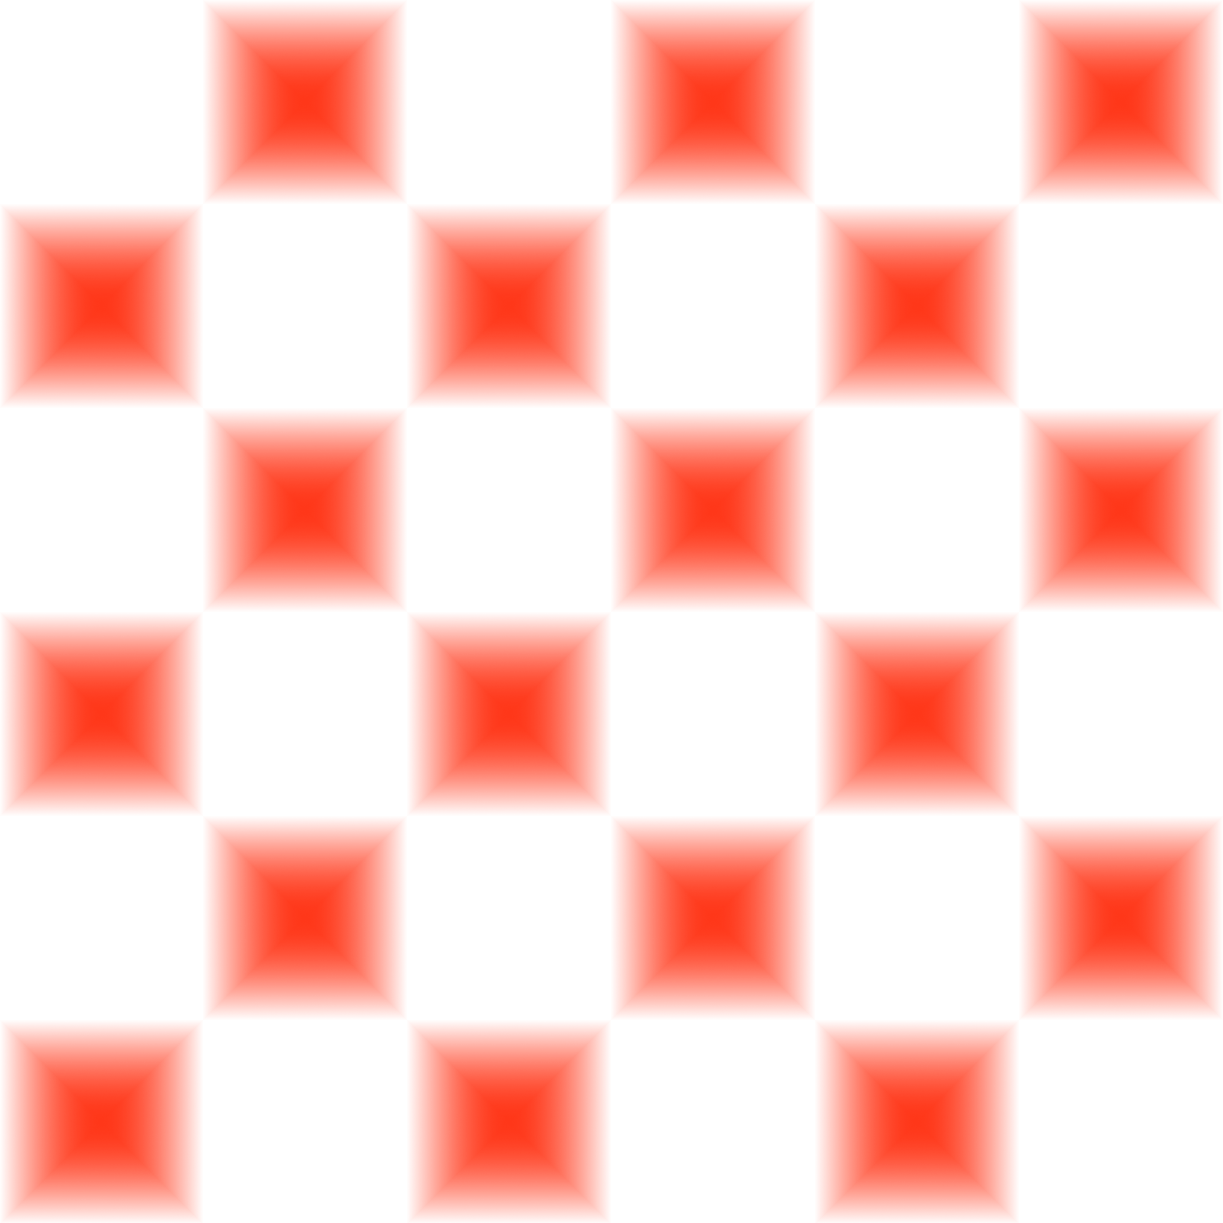
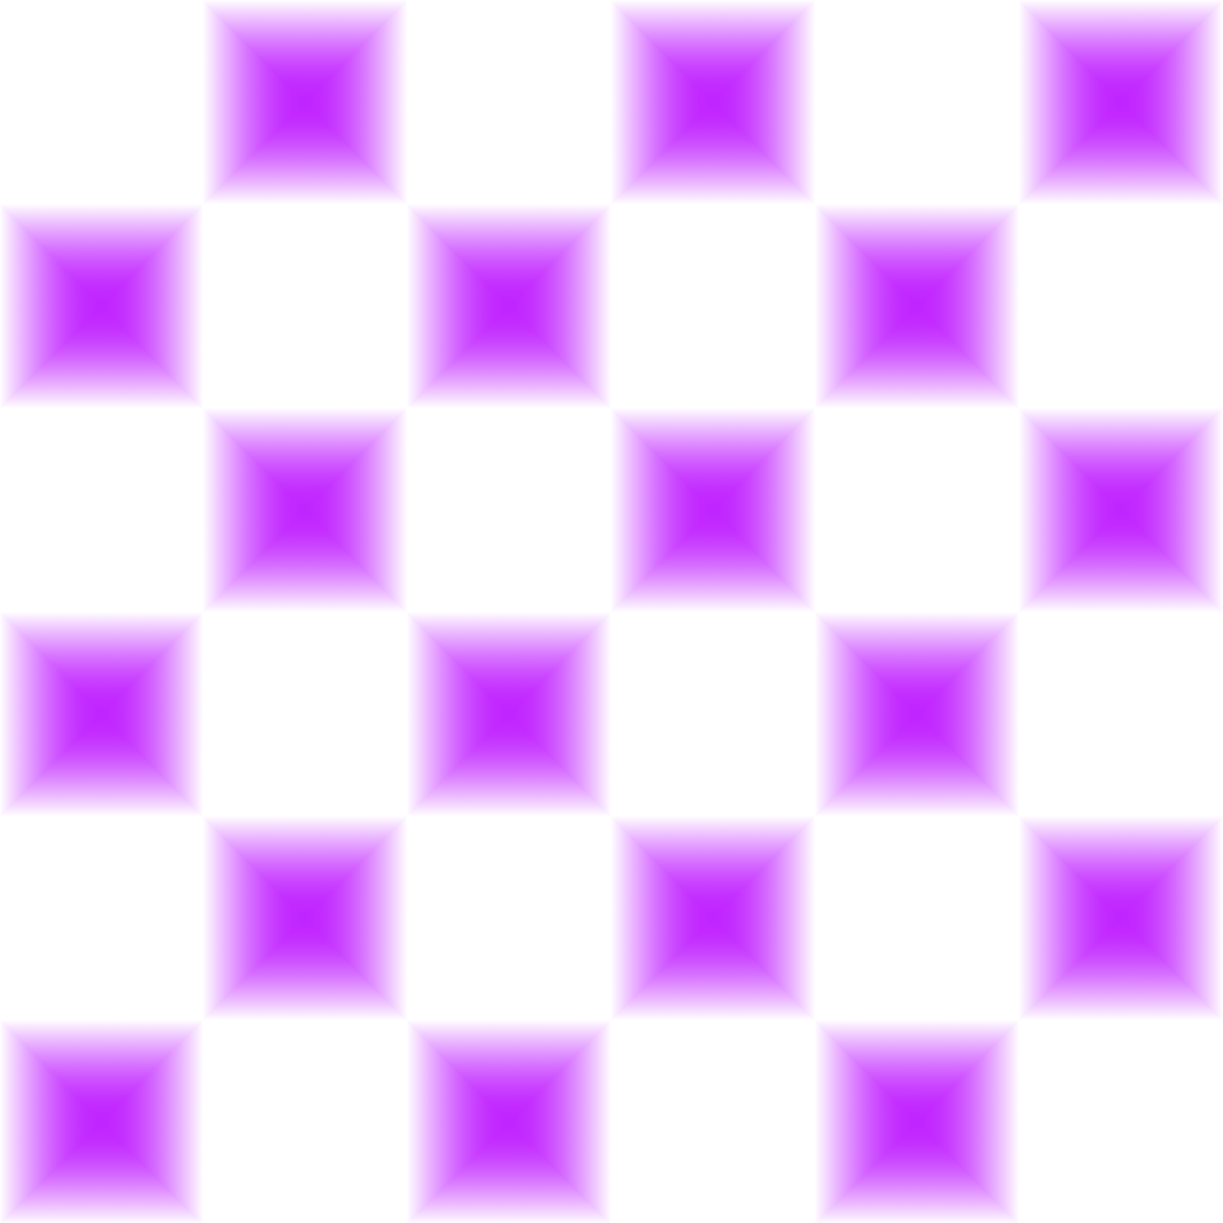
Standard Theme Changes
Theme H has been redesigned from a medicore Red to a good Purple theme and uses Purple instead of Red cubes

Themes A to G have been adjusted on some values to look better

diff --git a/resources/Designer.js b/resources/Designer.js
@@ -885,11 +885,11 @@ function ApplyTheme () {
 				 '--desktop-background-size:' + $('.bg_size .cpe-select__value').attr('value')  + ';\n' +
 				 '--desktop-background-no-horizontal-tiling:' + (!( document.querySelector('input#tilingH').checked ))  + ';\n' +
 				 '--desktop-background-no-vertical-tiling:' + (!( document.querySelector('input#tilingV').checked ))  + ';\n' +
-				 '--hyperlink-background-color:' + $('#saccentcolor').val() + ';\n' +
 				 '--canvas-background-color:' + $('#pagebg').val() + ';\n' +
 				 '--inactive-text-background-color:' + autocolor2  + ';\n' +
 				 '--canvas-text-background-color:' + autocolor3  + ';\n' +
 				 '--highlight-background-color:' + $('#accentcolor').val() + ';\n' +
+				 '--hyperlink-background-color:' + $('#saccentcolor').val() + ';\n' +
 				 '--active-title-background-color:' + autocolor5  + ';\n' +
 				 '--inactive-title-background-color:' + autocolor4  + ';\n' +
 				 '--custom-font:' + customfont2 + ';\n' +
@@ -970,7 +970,7 @@ function CopyTheme() {
     } else {
 		var customfont = $('#secondfont').val();
     }
-		result = '.theme-"' + window.MW18ActiveTheme + '.visualcolors-standard {\n' + // Beginning
+		result = '.theme-' + window.MW18ActiveTheme + '.visualcolors-standard {\n' + // Beginning
 				 '--desktop-background-image:' + image + ';\n' +
 				 '--desktop-background-image-opacity:' + $('#bodyimageopacity').val() + "%" + ';\n' +
 				 '--desktop-background-color:' + $('#bodybg').val()  + ';\n' +
@@ -981,11 +981,11 @@ function CopyTheme() {
 				 '--desktop-background-size:' + $('.bg_size .cpe-select__value').attr('value')  + ';\n' +
 				 '--desktop-background-no-horizontal-tiling:' + (!( document.querySelector('input#tilingH').checked ))  + ';\n' +
 				 '--desktop-background-no-vertical-tiling:' + (!( document.querySelector('input#tilingV').checked ))  + ';\n' +
-				 '--hyperlink-background-color:' + $('#saccentcolor').val() + ';\n' +
 				 '--canvas-background-color:' + $('#pagebg').val() + ';\n' +
 				 '--inactive-text-background-color:' + autocolor2  + ';\n' +
 				 '--canvas-text-background-color:' + autocolor3  + ';\n' +
 				 '--highlight-background-color:' + $('#accentcolor').val() + ';\n' +
+				 '--hyperlink-background-color:' + $('#saccentcolor').val() + ';\n' +
 				 '--active-title-background-color:' + autocolor5  + ';\n' +
 				 '--inactive-title-background-color:' + autocolor4  + ';\n' +
 				 '--custom-font:' + customfont2 + ';\n' +
@@ -1180,11 +1180,11 @@ function TestTheme() {
 				 '--desktop-background-size:' + $('.bg_size .cpe-select__value').attr('value')  + '!important;\n' +
 				 '--desktop-background-no-horizontal-tiling:' + (!( document.querySelector('input#tilingH').checked ))  + '!important;\n' +
 				 '--desktop-background-no-vertical-tiling:' + (!( document.querySelector('input#tilingV').checked ))  + '!important;\n' +
-				 '--hyperlink-background-color:' + $('#saccentcolor').val() + '!important;\n' +
 				 '--canvas-background-color:' + $('#pagebg').val() + '!important;\n' +
 				 '--inactive-text-background-color:' + autocolor2  + '!important;\n' +
 				 '--canvas-text-background-color:' + autocolor3  + '!important;\n' +
 				 '--highlight-background-color:' + $('#accentcolor').val() + '!important;\n' +
+				 '--hyperlink-background-color:' + $('#saccentcolor').val() + '!important;\n' +
 				 '--active-title-background-color:' + autocolor5  + '!important;\n' +
 				 '--inactive-title-background-color:' + autocolor4  + '!important;\n' +
 				 '--custom-font:' + customfont2 + '!important;\n' +

diff --git a/resources/Evelution.css b/resources/Evelution.css
@@ -1,15 +1,15 @@
 .theme-A.visualcolors-standard {
 --desktop-background-image:url("Cubes1.png");
 --desktop-background-color:#c8c8cd;
---desktop-text-background-color:#000000;
+--desktop-text-background-color:#614051;
 --desktop-background-size:contain;
 --canvas-background-color:#ffffff;
 --inactive-text-background-color:#664228;
---canvas-text-background-color:#614051;
+--canvas-text-background-color:#000000;
 --highlight-background-color:#736a62;
 --hyperlink-background-color:#837050;
---active-title-background-color:#837050;
---inactive-title-background-color:#e6be8a;
+--active-title-background-color:#c88a65;
+--inactive-title-background-color:#eed9c4;
 }
 
 .theme-B.visualcolors-standard {
@@ -32,7 +32,7 @@
 --desktop-text-background-color:#87421f;
 --desktop-background-size:contain;
 --canvas-background-color:#ffff99;
---inactive-text-background-color:#e6be8a;
+--inactive-text-background-color:#e6bc5c;
 --canvas-text-background-color:#664228;
 --highlight-background-color:#f1d651;
 --hyperlink-background-color:#9e5b40;
@@ -46,11 +46,11 @@
 --desktop-text-background-color:#00755e;
 --desktop-background-size:contain;
 --canvas-background-color:#ecebbd;
---inactive-text-background-color:#01a638;
+--inactive-text-background-color:#eed9c4;
 --canvas-text-background-color:#00451a;
 --highlight-background-color:#01a638;
 --hyperlink-background-color:#00755e;
---active-title-background-color:#00755e;
+--active-title-background-color:#7ba05b;
 --inactive-title-background-color:#93dfb8;
 }
 
@@ -64,7 +64,7 @@
 --canvas-text-background-color:#ffffff;
 --highlight-background-color:#8a857f;
 --hyperlink-background-color:#c8c8cd;
---active-title-background-color:#c9c0bb;
+--active-title-background-color:#736a62;
 --inactive-title-background-color:#8d90a1;
 }
 
@@ -76,10 +76,10 @@
 --canvas-background-color:#1560bd;
 --inactive-text-background-color:#7a89b8;
 --canvas-text-background-color:#c3cde6;
---highlight-background-color:#3f26bf;
+--highlight-background-color:#0066ff;
 --hyperlink-background-color:#95e0e8;
 --active-title-background-color:#47abcc;
---inactive-title-background-color:#c3cde6;
+--inactive-title-background-color:#4570e6;
 }
 
 
@@ -93,22 +93,22 @@
 --canvas-text-background-color:#ffcba4;
 --highlight-background-color:#af593e;
 --hyperlink-background-color:#ffae42;
---active-title-background-color:#c88a65;
---inactive-title-background-color:#ff8833;
+--active-title-background-color:#805533;
+--inactive-title-background-color:#c88a65;
 }
 
 .theme-H.visualcolors-standard {
 --desktop-background-image:url("Cubes8.png");
---desktop-background-color:#b33b24;
---desktop-text-background-color:#febaad;
+--desktop-background-color:#732e6c;
+--desktop-text-background-color:#c9a0dc;
 --desktop-background-size:contain;
---canvas-background-color:#c62d42;
---inactive-text-background-color:#cc553d;
---canvas-text-background-color:#fdd7e4;
---highlight-background-color:#e12c2c;
---hyperlink-background-color:#febaad;
---active-title-background-color:#d92121;
---inactive-title-background-color:#febaad;
+--canvas-background-color:#803790;
+--inactive-text-background-color:#6456b7;
+--canvas-text-background-color:#d8bfd8;
+--highlight-background-color:#c154c1;
+--hyperlink-background-color:#bf8fcc;
+--active-title-background-color:#652dc1;
+--inactive-title-background-color:#fbaed2;
 }
 
 /** Font Overrides **/
